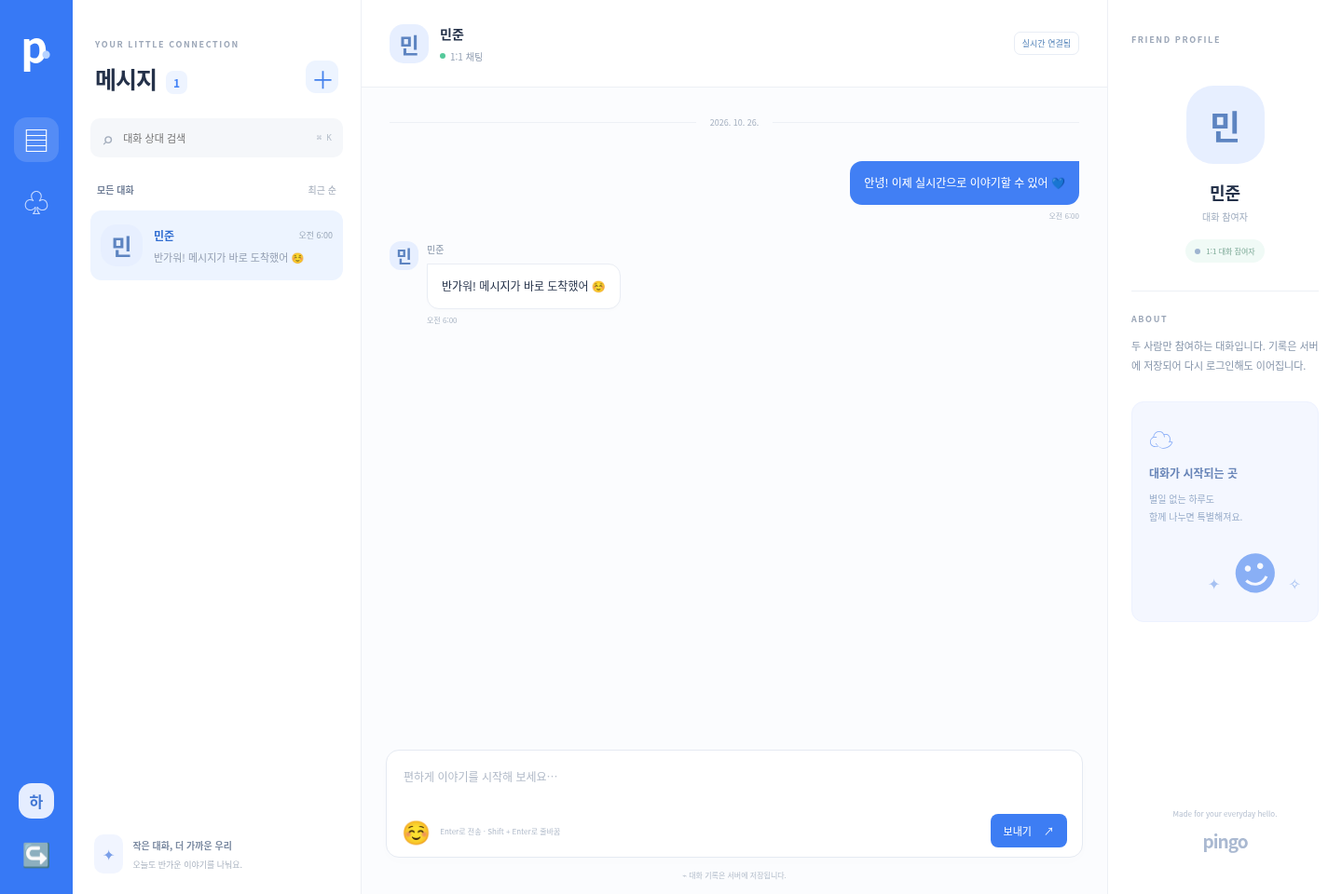
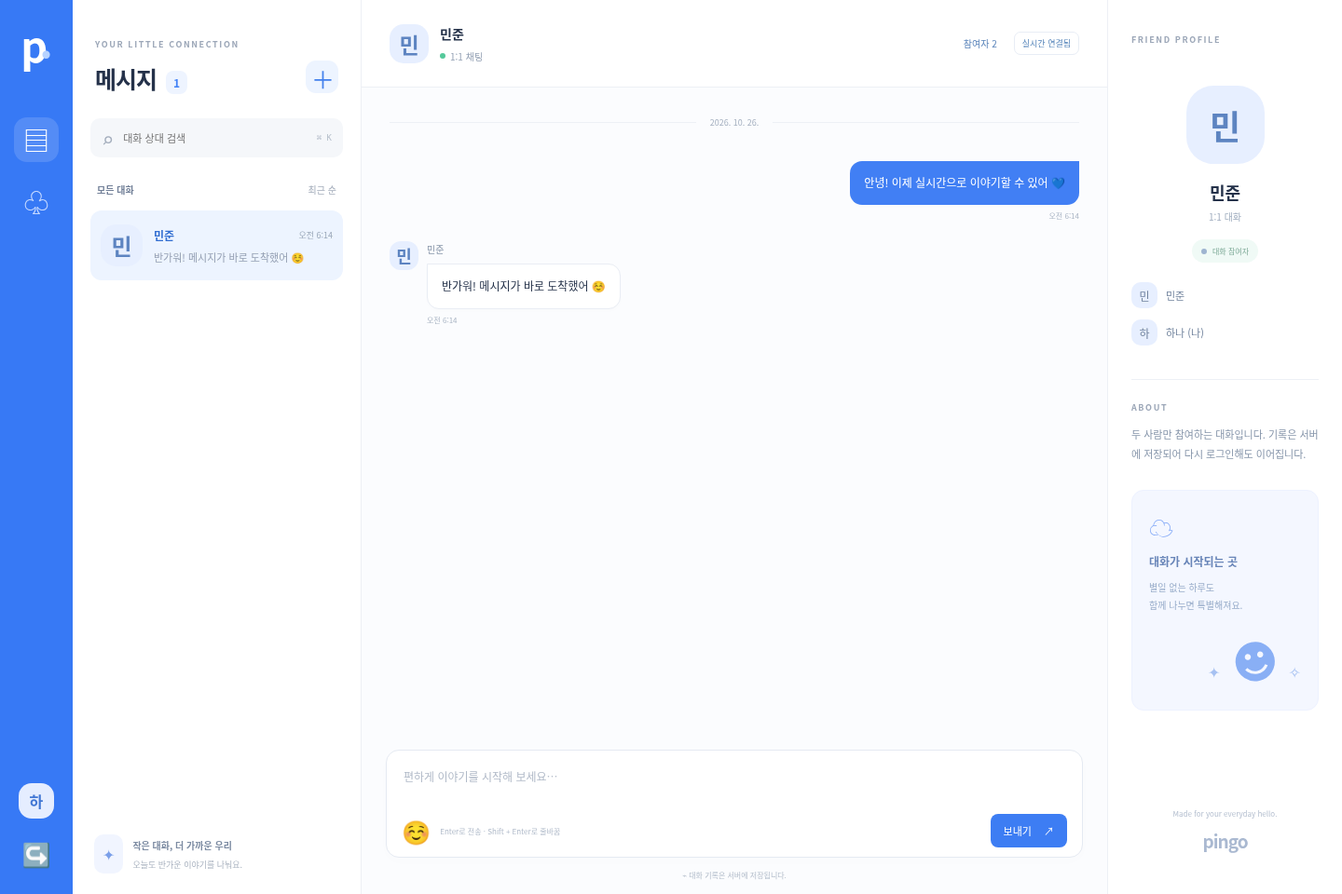
Add realtime group chats with participant lists and safe schema migration

diff --git a/style.css b/style.css
@@ -2,3 +2,4 @@
 :root{font-family:'DM Sans','Noto Sans KR',sans-serif;color:#25324a;background:#eef2f8;font-synthesis:none}*{box-sizing:border-box}body{margin:0}button,input,textarea{font:inherit}button{cursor:pointer}button:focus-visible,a:focus-visible,input:focus-visible,textarea:focus-visible{outline:3px solid #a5c4ff;outline-offset:3px}button{border:0;background:none;color:inherit}.shell{display:grid;grid-template-columns:78px 310px minmax(330px,1fr) 252px;max-width:1600px;height:100dvh;min-height:540px;margin:auto;background:#fff}.rail{background:#3779f5;display:flex;align-items:center;flex-direction:column;gap:18px;padding:25px 0;color:white}.brand{font-size:45px;font-weight:700;line-height:1;color:#fff;text-decoration:none;letter-spacing:-7px;margin-bottom:38px;padding-right:8px}.brand span{font-size:28px;color:#b6d2ff}.rail-button{font-size:28px;color:#c4d8ff;width:48px;height:48px;border-radius:14px}.rail-button.selected{background:#ffffff25;color:white}.rail-bottom{margin-top:auto}.my-avatar{display:grid;place-items:center;background:#e5edff;color:#4277d4;width:38px;height:38px;border-radius:14px;position:relative;font-weight:700}.online{position:absolute;background:#70e1ad;width:10px;height:10px;border:2px solid #3779f5;border-radius:50%;bottom:-2px;right:-2px}.sidebar{border-right:1px solid #edf0f5;padding:32px 19px 20px;display:flex;flex-direction:column}.eyebrow{font-size:9px;font-weight:700;letter-spacing:1.6px;color:#9ca7b8}.side-heading{display:flex;align-items:center;justify-content:space-between;padding:0 5px}h1{font-size:25px;letter-spacing:-1px;margin:10px 0 25px}.count{font-size:12px;color:#4382f6;background:#eef4ff;padding:4px 8px;border-radius:8px;vertical-align:middle;margin-left:10px;letter-spacing:0}.new-chat{background:#edf4ff;color:#4381ed;font-size:25px;border-radius:11px;height:35px;width:35px;margin-top:5px}.search{background:#f5f7fa;border-radius:10px;display:flex;align-items:center;padding:11px 12px;gap:8px;color:#a3adbc}.search>span{font-size:22px;line-height:20px}.search input{min-width:0;width:100%;background:none;border:0;outline:none;font-size:11px;color:#44516a}.search kbd{font-size:9px;white-space:nowrap;color:#b6bfcb}.list-label{display:flex;justify-content:space-between;font-size:10px;color:#a4adbb;padding:27px 7px 15px}.list-label span:first-child{font-weight:600;color:#728098}.contacts{display:flex;flex-direction:column;gap:6px;overflow:auto}.contact{width:100%;display:flex;align-items:center;gap:12px;text-align:left;padding:15px 11px;border-radius:12px}.contact.active{background:#edf4ff}.avatar{height:45px;width:45px;flex-shrink:0;border-radius:17px;display:grid;place-items:center;font-size:24px;background:#ffedd9}.contact-body{min-width:0;flex:1}.contact-top{display:flex;align-items:center;justify-content:space-between;gap:8px}.contact strong{font-size:12px}.contact time{font-size:9px;color:#9ca9ba}.contact p{font-size:11px;color:#95a0b3;margin:7px 0 0;overflow:hidden;white-space:nowrap;text-overflow:ellipsis}.contact.active strong{color:#326ed1}.side-footer{display:flex;gap:10px;align-items:center;margin-top:auto;padding:24px 4px 0}.spark{background:#f1f5ff;color:#7a9fe9;padding:9px;border-radius:10px}.side-footer strong{font-size:10px;color:#7c8ba2}.side-footer p{font-size:9px;color:#aab3c0;margin:5px 0}.chat{display:flex;flex-direction:column;min-width:0;background:#fbfcfe}.chat-header{height:94px;flex-shrink:0;display:flex;align-items:center;gap:12px;padding:0 30px;border-bottom:1px solid #edf0f5;background:white}.chat-header .avatar{height:42px;width:42px;border-radius:15px;font-size:23px}.header-text h2{font-size:14px;margin:0 0 7px}.header-text p{display:flex;align-items:center;gap:5px;font-size:10px;color:#96a3b6;margin:0}.status-dot{height:6px;width:6px;display:inline-block;border-radius:50%;background:#55c99b}.demo-pill{margin-left:auto;color:#95a4ba;border:1px solid #e8edf5;border-radius:7px;padding:5px 8px;font-size:9px}#back{display:none;font-size:28px}.messages{padding:30px;overflow:auto;flex:1;scroll-behavior:smooth}.date{display:flex;align-items:center;gap:15px;font-size:9px;color:#a6b1c1;margin:1px 0 35px;justify-content:center}.date:before,.date:after{content:'';height:1px;background:#edf0f5;flex:1}.message{display:flex;gap:9px;align-items:flex-start;margin:0 0 22px}.message .avatar{width:31px;height:31px;border-radius:12px;font-size:18px}.message-content{max-width:80%;min-width:0}.sender{font-size:10px;color:#8795a9;margin:1px 0 8px}.bubble{background:#fff;border:1px solid #e9edf4;border-radius:0 13px 13px 13px;padding:12px 15px;font-size:12px;line-height:1.9;white-space:pre-wrap;overflow-wrap:anywhere;box-shadow:0 2px 4px #24365603}.message time{font-size:8px;color:#aab5c4;display:block;margin-top:6px}.message.own{justify-content:flex-end}.own .bubble{border:0;border-radius:13px 0 13px 13px;background:#417ff4;color:#fff}.own time{text-align:right}.welcome{margin:40px auto;text-align:center;color:#95a3b7;font-size:12px}.composer-area{padding:0 26px 15px;position:relative}#composer{padding:15px 16px 10px;border:1px solid #e5eaf2;border-radius:14px;background:#fff;box-shadow:0 4px 15px #2b4d7603}textarea{width:100%;border:0;outline:none;resize:none;min-height:48px;max-height:140px;background:transparent;font-size:12px;line-height:1.8;color:#384a63}textarea::placeholder{color:#b1bac8}.composer-bottom{display:flex;justify-content:space-between;align-items:center}.composer-bottom>div{display:flex;align-items:center;gap:10px}#emoji-button{font-size:25px;color:#96a5ba;padding:0}.input-hint{font-size:8px;color:#b1bbca}#send,.primary{background:#3d7df3;color:white;border-radius:8px;font-size:11px;padding:10px 14px}#send span{margin-left:10px}.privacy{text-align:center;color:#b3bdca;font-size:8px;margin:13px 0 0}.emoji-picker{position:absolute;bottom:150px;left:26px;background:white;border:1px solid #e7edf6;padding:10px;border-radius:12px;box-shadow:0 8px 30px #24365615}.emoji-picker button{font-size:24px;padding:5px}.profile{padding:36px 25px;border-left:1px solid #edf0f5;display:flex;align-items:center;flex-direction:column}.profile>.eyebrow:first-child{align-self:flex-start}.profile-avatar{width:84px;height:84px;border-radius:29px;font-size:47px;display:grid;place-items:center;margin-top:43px}.profile h2{font-size:18px;margin:17px 0 6px}.profile>p{font-size:10px;color:#a1aec0;margin:0}.profile-status{background:#f0faf6;color:#7eaa98;border-radius:20px;font-size:8px;padding:7px 10px;margin-top:17px;display:flex;gap:6px;align-items:center}.profile-divider{height:1px;background:#edf0f5;width:100%;margin:30px 0 23px}.profile>.eyebrow{align-self:flex-start}.profile .about{font-size:11px;line-height:1.9;margin-top:12px;align-self:flex-start;color:#8796ab}.profile-note{background:#f4f7ff;border:1px solid #edf2ff;width:100%;border-radius:13px;margin-top:28px;padding:20px 18px;position:relative;overflow:hidden}.profile-note>span{font-size:26px;color:#84aaf7}.profile-note h3{font-size:12px;color:#6885b8;margin:10px 0}.profile-note p{font-size:10px;color:#9aaecb;line-height:1.9}.mini-art{text-align:right;font-size:16px;color:#a6c1f2;margin-top:13px}.mini-art span{display:inline-block;font-size:48px;color:#89aff5;transform:rotate(-12deg);margin:0 8px}.profile-foot{margin-top:auto;padding-top:25px;font-size:8px;text-align:center;color:#b6c0d0;line-height:2.2}.profile-foot strong{font-size:19px;color:#aab9d1;letter-spacing:-1px}dialog{border:1px solid #e5ebf5;border-radius:20px;padding:30px;width:min(400px,90vw);box-shadow:0 20px 80px #152b4b25}dialog::backdrop{background:#21355355;backdrop-filter:blur(4px)}dialog h2{font-size:22px}dialog p{font-size:12px;color:#8e9bb0}.close-dialog{float:right;font-size:25px}#add-friend label{display:block;font-size:12px;margin-top:25px}#add-friend input{display:block;width:100%;margin:10px 0 20px;padding:12px;border:1px solid #dce4f0;border-radius:8px}.primary{width:100%;padding:13px}.empty{font-size:12px;text-align:center;color:#95a3b7;padding:25px 5px}@media(min-width:1450px){.shell{height:calc(100dvh - 64px);margin:32px auto;max-width:1430px;border-radius:20px;overflow:hidden;box-shadow:0 15px 80px #304e7810}}@media(max-width:1150px){.shell{grid-template-columns:70px 280px minmax(300px,1fr)}.profile{display:none}}@media(max-width:720px){.shell{grid-template-columns:60px 240px minmax(0,1fr)}.rail{padding-top:20px}.sidebar{padding:24px 12px}.chat-header{padding:0 18px}.messages{padding:22px 16px}.composer-area{padding:0 12px 15px}.input-hint{display:none}}@media(max-width:600px){.shell{grid-template-columns:58px 1fr;min-height:0}.chat{display:none}.shell.chat-open .sidebar,.shell.chat-open .rail{display:none}.shell.chat-open{grid-template-columns:1fr}.shell.chat-open .chat{display:flex}#back{display:block}.contact{padding:18px 12px}.side-heading h1{margin-top:12px}.demo-pill{font-size:8px}}
 [hidden]{display:none!important}.rail-bottom{display:flex;align-items:center;flex-direction:column;gap:18px}.logout-button{color:#e0eaff;font-size:25px;border-radius:8px}.auth-screen{min-height:100dvh;display:grid;grid-template-columns:1fr 1fr;background:white}.auth-intro{background:#3779f5;color:white;padding:60px max(35px,10vw);display:flex;flex-direction:column;justify-content:center;align-items:flex-start;overflow:hidden}.auth-intro .brand{margin-bottom:85px}.auth-eyebrow{font-size:11px;letter-spacing:3px;color:#c2d7ff}.auth-intro h1{font-size:clamp(27px,3vw,45px);line-height:1.5;letter-spacing:-2px;margin:25px 0}.auth-intro p{color:#ccddff;font-size:14px;line-height:2}.auth-art{font-size:42px;color:#b3d0ff;margin-top:50px;white-space:nowrap}.auth-art span{font-size:120px;display:inline-block;transform:rotate(-12deg);margin:0 30px}.auth-panel{display:grid;place-items:center;padding:45px 25px;background:#fbfcff}.auth-card{width:100%;max-width:365px}.auth-card h2{font-size:27px;letter-spacing:-1px;margin:14px 0 10px}.auth-card>p{font-size:12px;color:#95a3b8;line-height:1.8}.auth-tabs{display:flex;border-bottom:1px solid #e3eaf6;margin:30px 0 25px}.auth-tabs button{flex:1;padding:13px;font-size:13px;color:#94a2b7;border-bottom:2px solid transparent}.auth-tabs button[aria-pressed=true]{color:#3779f5;border-color:#3779f5;font-weight:700}#auth-form label{display:block;font-size:12px;font-weight:600;margin:17px 0;color:#53647f}#auth-form input{display:block;width:100%;border:1px solid #e0e7f2;background:white;padding:13px 14px;border-radius:9px;font-size:12px;margin-top:9px;color:#25324a}#auth-form input::placeholder{color:#a9b4c5}.password-wrap{position:relative}.password-wrap input{padding-right:58px!important}.password-wrap button{position:absolute;right:9px;top:8px;padding:7px;color:#7992b8;font-size:10px}.auth-submit{margin-top:3px;font-size:13px;padding:15px}.auth-error{font-size:11px;color:#c94c59;line-height:1.7;min-height:18px}.auth-card .auth-note{text-align:center;font-size:10px;color:#a8b4c6;margin-top:23px}button:disabled{opacity:.55;cursor:wait}@media(max-width:700px){.auth-screen{grid-template-columns:1fr}.auth-intro{padding:25px 30px}.auth-intro .brand{margin-bottom:20px;font-size:35px}.auth-intro h1{font-size:24px;margin:15px 0 5px;letter-spacing:-1px}.auth-intro p,.auth-art{display:none}.auth-eyebrow{font-size:9px}.auth-panel{padding:32px 24px 40px}.auth-card h2{font-size:23px}}
 .chat-error{margin:12px 25px 0;background:#fff0ef;color:#b84b51;border-radius:8px;padding:10px 13px;font-size:11px;line-height:1.7}#retry-sync{align-self:center;color:#3779f5;padding:10px;font-size:12px}.load-more{display:block;margin:0 auto 20px;padding:8px 14px;border:1px solid #dce7fb;border-radius:20px;color:#5782c4;font-size:11px;background:white}.friend-result{display:block;width:100%;text-align:left;padding:14px;border-radius:10px;background:#edf4ff;color:#326ed1;margin:8px 0;font-size:12px}#friend-error{font-size:11px;color:#8b9ab0;line-height:1.8}.empty{white-space:pre-line;line-height:2}.avatar,.profile-avatar{font-family:'Noto Sans KR',sans-serif;font-weight:600;color:#5d84c1}.profile-avatar{font-size:36px}.demo-pill{white-space:nowrap;color:#5685ba}.profile-status .status-dot{background:#9eb4d0}
+.room-tabs{display:flex;gap:8px;margin:18px 0}.room-tabs button{flex:1;border:1px solid #e3eaf6;border-radius:9px;padding:10px;font-size:12px;color:#92a3ba}.room-tabs button[aria-pressed=true]{color:#3779f5;border-color:#b9d0ff;background:#edf4ff}.room-name-label{display:block;color:#53647f;font-size:12px}.room-name-label input{display:block;width:100%;border:1px solid #dce4f0;border-radius:8px;padding:12px;margin-top:8px;font:inherit}.group-hint{font-size:10px!important}.selected-members{display:flex;flex-wrap:wrap;gap:6px;margin:12px 0}.member-chip{border-radius:20px;padding:6px 10px;background:#eaf2ff;color:#4a7ac6;font-size:11px}.friend-result[aria-pressed=true]{background:#dceaff;border:1px solid #8cb4ff}.member-list{align-self:stretch;max-height:180px;overflow:auto;margin-top:15px}.member-row{display:flex;gap:9px;align-items:center;font-size:11px;color:#71839d;padding:6px 0;overflow-wrap:anywhere}.member-face{display:grid;place-items:center;width:28px;height:28px;flex-shrink:0;border-radius:10px;font-size:12px}.view-members{font-size:10px;color:#5e87bc;white-space:nowrap;margin-left:auto}.chat-header .demo-pill{margin-left:0}.header-text{min-width:0}.header-text h2{white-space:nowrap;overflow:hidden;text-overflow:ellipsis}.contact strong{overflow:hidden;text-overflow:ellipsis;white-space:nowrap}.profile h2{max-width:100%;overflow-wrap:anywhere}.profile-note{flex-shrink:0}.profile{overflow:auto}#friend-results{max-height:230px;overflow:auto}dialog{max-height:90dvh;overflow:auto}#create-group{margin-top:12px}#members-dialog-list{max-height:60dvh;overflow:auto}@media(max-width:600px){.chat-header{gap:8px;padding:0 10px}.chat-header .demo-pill{font-size:7px;padding:4px}.view-members{font-size:9px}.chat-header .avatar{width:34px;height:34px;font-size:17px}.header-text h2{font-size:12px}}

diff --git a/index.html b/index.html
@@ -1,8 +1,8 @@
 <!doctype html>
 <html lang="ko"><head><meta charset="UTF-8"><meta name="viewport" content="width=device-width, initial-scale=1"><title>Pingo — 가까워지는 대화</title><link rel="stylesheet" href="/style.css"><script defer src="/app.js"></script><script defer src="/auth.js"></script></head>
-<body><section id="auth-screen" class="auth-screen"><div class="auth-intro"><a class="brand" href="/">p<span>•</span></a><span class="auth-eyebrow">HELLO, YOUR PEOPLE.</span><h1>반가운 인사로 시작되는<br>우리의 이야기.</h1><p>가까운 친구와 나누는 작은 일상.<br>Pingo에서 함께해요.</p><div class="auth-art">☁ <span>☺</span> ✦</div></div><div class="auth-panel"><div class="auth-card"><span class="eyebrow">WELCOME TO PINGO</span><h2 id="auth-title">다시 만나서 반가워요</h2><p id="auth-description">로그인하고 이야기를 이어가세요.</p><div class="auth-tabs"><button type="button" id="login-tab" aria-pressed="true">로그인</button><button type="button" id="signup-tab" aria-pressed="false">회원가입</button></div><form id="auth-form"><label id="name-field" hidden>이름<input id="auth-name" name="name" autocomplete="nickname" maxlength="30" placeholder="친구들에게 보여줄 이름"></label><label>이메일<input id="auth-email" name="email" type="email" autocomplete="email" maxlength="254" placeholder="hello@example.com" required></label><label>비밀번호<div class="password-wrap"><input id="auth-password" name="password" type="password" autocomplete="current-password" minlength="10" maxlength="128" placeholder="10자 이상 입력해 주세요" required><button type="button" id="toggle-password" aria-label="비밀번호 표시" aria-pressed="false">보기</button></div></label><label id="confirm-field" hidden>비밀번호 확인<input id="auth-confirm" type="password" autocomplete="new-password" maxlength="128" placeholder="비밀번호를 다시 입력해 주세요"></label><p id="auth-error" class="auth-error" role="alert"></p><button class="primary auth-submit" id="auth-submit" type="submit" disabled>로그인 상태 확인 중…</button></form><p class="auth-note">계정은 이 앱의 서버에 저장됩니다.<br>친구와 1:1 실시간 대화를 나누세요.</p></div></div></section><main class="shell" hidden>
+<body><section id="auth-screen" class="auth-screen"><div class="auth-intro"><a class="brand" href="/">p<span>•</span></a><span class="auth-eyebrow">HELLO, YOUR PEOPLE.</span><h1>반가운 인사로 시작되는<br>우리의 이야기.</h1><p>가까운 친구와 나누는 작은 일상.<br>Pingo에서 함께해요.</p><div class="auth-art">☁ <span>☺</span> ✦</div></div><div class="auth-panel"><div class="auth-card"><span class="eyebrow">WELCOME TO PINGO</span><h2 id="auth-title">다시 만나서 반가워요</h2><p id="auth-description">로그인하고 이야기를 이어가세요.</p><div class="auth-tabs"><button type="button" id="login-tab" aria-pressed="true">로그인</button><button type="button" id="signup-tab" aria-pressed="false">회원가입</button></div><form id="auth-form"><label id="name-field" hidden>이름<input id="auth-name" name="name" autocomplete="nickname" maxlength="30" placeholder="친구들에게 보여줄 이름"></label><label>이메일<input id="auth-email" name="email" type="email" autocomplete="email" maxlength="254" placeholder="hello@example.com" required></label><label>비밀번호<div class="password-wrap"><input id="auth-password" name="password" type="password" autocomplete="current-password" minlength="10" maxlength="128" placeholder="10자 이상 입력해 주세요" required><button type="button" id="toggle-password" aria-label="비밀번호 표시" aria-pressed="false">보기</button></div></label><label id="confirm-field" hidden>비밀번호 확인<input id="auth-confirm" type="password" autocomplete="new-password" maxlength="128" placeholder="비밀번호를 다시 입력해 주세요"></label><p id="auth-error" class="auth-error" role="alert"></p><button class="primary auth-submit" id="auth-submit" type="submit" disabled>로그인 상태 확인 중…</button></form><p class="auth-note">계정은 이 앱의 서버에 저장됩니다.<br>친구와 1:1 · 단체 실시간 대화를 나누세요.</p></div></div></section><main class="shell" hidden>
 <nav class="rail" aria-label="주 메뉴"><a class="brand" href="/" aria-label="Pingo 홈">p<span>•</span></a><button class="rail-button selected" data-tab="chats" title="채팅" aria-label="채팅">▤</button><button class="rail-button" data-tab="friends" title="친구" aria-label="친구">♧</button><div class="rail-bottom"><span class="my-avatar" id="my-avatar" title="내 계정">J</span><button id="logout" class="logout-button" title="로그아웃" aria-label="로그아웃">↪</button></div></nav>
 <aside class="sidebar"><div class="side-heading"><div><span class="eyebrow">YOUR LITTLE CONNECTION</span><h1 id="list-title">메시지<span class="count">0</span></h1></div><button class="new-chat" aria-label="새 대화" title="새 대화">＋</button></div><label class="search"><span>⌕</span><input id="search" placeholder="대화 상대 검색" autocomplete="off" aria-label="대화 상대 검색"><kbd>⌘ K</kbd></label><div class="list-label"><span id="list-label">모든 대화</span><span>최근 순</span></div><div id="contacts" class="contacts"></div><div class="side-footer"><span class="spark">✦</span><div><strong>작은 대화, 더 가까운 우리</strong><p>오늘도 반가운 이야기를 나눠요.</p></div></div></aside>
-<section class="chat"><header class="chat-header"><button id="back" aria-label="대화 목록으로">‹</button><div id="header-avatar" class="avatar"></div><div class="header-text"><h2 id="contact-name"></h2><p><span class="status-dot"></span><span id="contact-status">연결 중</span></p></div><span class="demo-pill" id="connection-status" role="status">연결 중</span></header><p id="chat-error" class="chat-error" role="alert" hidden></p><button id="retry-sync" hidden>다시 연결</button><div id="messages" class="messages" role="log" aria-live="polite" aria-label="메시지"></div><div class="composer-area"><div id="emoji-picker" class="emoji-picker" hidden></div><form id="composer"><textarea id="message-input" rows="1" maxlength="2000" placeholder="편하게 이야기를 시작해 보세요…" aria-label="메시지 입력"></textarea><div class="composer-bottom"><div><button type="button" id="emoji-button" aria-label="이모지 선택" title="이모지">☺</button><span class="input-hint">Enter로 전송 · Shift + Enter로 줄바꿈</span></div><button id="send" type="submit">보내기 <span>↗</span></button></div></form><p class="privacy">⌁ 대화 기록은 서버에 저장됩니다.</p></div></section>
-<aside class="profile"><span class="eyebrow">FRIEND PROFILE</span><div id="profile-avatar" class="profile-avatar"></div><h2 id="profile-name"></h2><p id="profile-handle"></p><div class="profile-status"><span class="status-dot"></span> 1:1 대화 참여자</div><div class="profile-divider"></div><span class="eyebrow">ABOUT</span><p id="profile-about" class="about"></p><div class="profile-note"><span>☁</span><h3>대화가 시작되는 곳</h3><p>별일 없는 하루도<br>함께 나누면 특별해져요.</p><div class="mini-art">✦ <span>☻</span> ✧</div></div><div class="profile-foot">Made for your everyday hello.<br><strong>pingo</strong></div></aside>
-</main><dialog id="new-dialog"><form method="dialog"><button class="close-dialog" aria-label="닫기">×</button></form><h2>새로운 대화</h2><p>가입한 친구의 이름 또는 정확한 이메일로 찾아보세요.</p><form id="add-friend"><label>이름 또는 이메일<input id="friend-name" minlength="2" maxlength="254" placeholder="이름 또는 friend@example.com" required autocomplete="off"></label><button class="primary" type="submit">친구 찾기 ⌕</button></form><p id="friend-error" role="status"></p><div id="friend-results"></div></dialog></body></html>
+<section class="chat"><header class="chat-header"><button id="back" aria-label="대화 목록으로">‹</button><div id="header-avatar" class="avatar"></div><div class="header-text"><h2 id="contact-name"></h2><p><span class="status-dot"></span><span id="contact-status">연결 중</span></p></div><button id="view-members" class="view-members" type="button" hidden>참여자</button><span class="demo-pill" id="connection-status" role="status">연결 중</span></header><p id="chat-error" class="chat-error" role="alert" hidden></p><button id="retry-sync" hidden>다시 연결</button><div id="messages" class="messages" role="log" aria-live="polite" aria-label="메시지"></div><div class="composer-area"><div id="emoji-picker" class="emoji-picker" hidden></div><form id="composer"><textarea id="message-input" rows="1" maxlength="2000" placeholder="편하게 이야기를 시작해 보세요…" aria-label="메시지 입력"></textarea><div class="composer-bottom"><div><button type="button" id="emoji-button" aria-label="이모지 선택" title="이모지">☺</button><span class="input-hint">Enter로 전송 · Shift + Enter로 줄바꿈</span></div><button id="send" type="submit">보내기 <span>↗</span></button></div></form><p class="privacy">⌁ 대화 기록은 서버에 저장됩니다.</p></div></section>
+<aside class="profile"><span class="eyebrow">FRIEND PROFILE</span><div id="profile-avatar" class="profile-avatar"></div><h2 id="profile-name"></h2><p id="profile-handle"></p><div class="profile-status"><span class="status-dot"></span> 대화 참여자</div><div id="member-list" class="member-list"></div><div class="profile-divider"></div><span class="eyebrow">ABOUT</span><p id="profile-about" class="about"></p><div class="profile-note"><span>☁</span><h3>대화가 시작되는 곳</h3><p>별일 없는 하루도<br>함께 나누면 특별해져요.</p><div class="mini-art">✦ <span>☻</span> ✧</div></div><div class="profile-foot">Made for your everyday hello.<br><strong>pingo</strong></div></aside>
+</main><dialog id="new-dialog"><form method="dialog"><button class="close-dialog" aria-label="닫기">×</button></form><h2>새로운 대화</h2><div class="room-tabs" aria-label="대화 유형"><button type="button" id="direct-mode" aria-pressed="true">1:1 대화</button><button type="button" id="group-mode" aria-pressed="false">단체 대화</button></div><div id="group-options" hidden><label class="room-name-label">방 이름<input id="group-title" maxlength="60" placeholder="예: 주말 모임"></label><p class="group-hint">친구를 2명 이상 선택하세요. 나를 포함해 최대 50명까지 함께할 수 있어요.</p><div id="selected-members" class="selected-members"></div></div><p>가입한 친구의 이름 또는 정확한 이메일로 찾아보세요.</p><form id="add-friend"><label>이름 또는 이메일<input id="friend-name" minlength="2" maxlength="254" placeholder="이름 또는 friend@example.com" required autocomplete="off"></label><button class="primary" type="submit">친구 찾기 ⌕</button></form><p id="friend-error" role="status"></p><div id="friend-results"></div><button type="button" class="primary" id="create-group" hidden disabled>단체 대화 만들기</button></dialog><dialog id="members-dialog"><form method="dialog"><button class="close-dialog" aria-label="닫기">×</button></form><h2 id="members-title">참여자</h2><div id="members-dialog-list"></div></dialog></body></html>

diff --git a/app.js b/app.js
@@ -3,6 +3,8 @@ let account = null, conversations = [], active = null, source = null;
 let generation = 0, syncRunning = false, syncAgain = false, sending = false;
 let selectionVersion = 0, searchVersion = 0, pendingSend = null;
 const histories = new Map();
+let roomMode = 'direct', groupCreating = false;
+const selectedMembers = new Map();
 const current = () => conversations.find(c => c.id === active);
 const clock = value => new Intl.DateTimeFormat('ko-KR', { hour: 'numeric', minute: '2-digit' }).format(new Date(value));
 function element(tag, className, text) {
@@ -32,9 +34,9 @@ function renderList() {
   for (const c of conversations.filter(c => c.peer_name.toLowerCase().includes(query))) {
     const button = element('button', 'contact' + (c.id === active ? ' active' : ''));
     button.setAttribute('aria-pressed', String(c.id === active));
-    const face = element('span', 'avatar'); avatar(face, c.peer_name);
+    const face = element('span', 'avatar'); avatar(face, c.kind === 'group' ? '♧' : c.peer_name);
     const body = element('div', 'contact-body'), top = element('div', 'contact-top');
-    top.append(element('strong', '', c.peer_name), element('time', '', clock(c.last_at || c.created_at)));
+    top.append(element('strong', '', c.peer_name + (c.kind === 'group' ? ` · ${c.member_count}` : '')), element('time', '', clock(c.last_at || c.created_at)));
     body.append(top, element('p', '', c.last_text || '첫 인사를 건네보세요 👋'));
     button.append(face, body); button.onclick = () => selectConversation(c.id);
     list.append(button);
@@ -59,9 +61,10 @@ function renderMessages({ bottom = false } = {}) {
     const date = new Date(message.created_at).toLocaleDateString('ko-KR');
     if (date !== lastDate) { log.append(element('div', 'date', date)); lastDate = date; }
     const own = message.sender_id === account.id, row = element('div', 'message' + (own ? ' own' : ''));
-    if (!own) { const face = element('span', 'avatar'); avatar(face, c.peer_name); row.append(face); }
+    const senderName = c.members?.find(member => member.id === message.sender_id)?.name || c.peer_name;
+    if (!own) { const face = element('span', 'avatar'); avatar(face, senderName); row.append(face); }
     const content = element('div', 'message-content');
-    if (!own) content.append(element('div', 'sender', c.peer_name));
+    if (!own) content.append(element('div', 'sender', senderName));
     content.append(element('div', 'bubble', message.text), element('time', '', clock(message.created_at)));
     row.dataset.messageId = message.id; row.append(content); log.append(row);
   }
@@ -71,10 +74,13 @@ function renderHeader() {
   const c = current();
   $('#contact-name').textContent = c?.peer_name || '새로운 대화';
   $('#profile-name').textContent = c?.peer_name || 'Pingo';
-  $('#profile-handle').textContent = c ? '대화 참여자' : '가까워지는 대화';
-  $('#profile-about').textContent = c ? '두 사람만 참여하는 대화입니다. 기록은 서버에 저장되어 다시 로그인해도 이어집니다.' : '가입한 친구를 검색하고 대화를 시작하세요.';
-  $('#contact-status').textContent = c ? '1:1 채팅' : '친구를 찾아보세요';
-  avatar($('#header-avatar'), c?.peer_name); avatar($('#profile-avatar'), c?.peer_name);
+  $('#profile-handle').textContent = c ? (c.kind === 'group' ? `단체 대화 · ${c.member_count}명` : '1:1 대화') : '가까워지는 대화';
+  $('#profile-about').textContent = c ? (c.kind === 'group' ? '함께 나누는 이야기, 더 가까워지는 우리. 참여자만 대화 기록에 접근할 수 있어요.' : '두 사람만 참여하는 대화입니다. 기록은 서버에 저장되어 다시 로그인해도 이어집니다.') : '가입한 친구를 검색하고 대화를 시작하세요.';
+  $('#contact-status').textContent = c ? (c.kind === 'group' ? `단체 채팅 · ${c.member_count}명` : '1:1 채팅') : '친구를 찾아보세요';
+  $('#view-members').hidden = !c;
+  $('#view-members').textContent = c ? `참여자 ${c.member_count}` : '참여자';
+  renderMembers();
+  avatar($('#header-avatar'), c?.kind === 'group' ? '♧' : c?.peer_name); avatar($('#profile-avatar'), c?.kind === 'group' ? '♧' : c?.peer_name);
   $('#message-input').disabled = !c; $('#send').disabled = !c || sending;
 }
 function mergeHistory(id, data) {
@@ -161,6 +167,10 @@ function clearAccount() {
   $('#friend-results').replaceChildren(); $('#friend-error').textContent = ''; $('#emoji-picker').hidden = true;
   $('#retry-sync').hidden = true; chatError(); $('.shell').classList.remove('chat-open');
   if ($('#new-dialog').open) $('#new-dialog').close();
+  if ($('#members-dialog').open) $('#members-dialog').close();
+  selectedMembers.clear(); groupCreating = false;
+  $('#direct-mode').disabled = false; $('#group-mode').disabled = false;
+  $('#member-list').replaceChildren(); $('#members-dialog-list').replaceChildren();
 }
 $('#composer').onsubmit = async event => {
   event.preventDefault(); if (!account || !active || sending) return;
@@ -183,11 +193,11 @@ $('#message-input').oninput = event => { event.target.style.height = 'auto'; eve
 $('#search').oninput = renderList;
 document.addEventListener('keydown', e => { if ((e.metaKey || e.ctrlKey) && e.key === 'k') { e.preventDefault(); $('#search').focus(); } });
 document.querySelectorAll('[data-tab]').forEach(button => button.onclick = () => {
-  if (button.dataset.tab === 'friends') { $('#new-dialog').showModal(); return; }
+  if (button.dataset.tab === 'friends') { openNewConversation(); return; }
   $('#search').value = ''; renderList();
 });
 $('#back').onclick = () => $('.shell').classList.remove('chat-open');
-$('.new-chat').onclick = () => { $('#new-dialog').showModal(); $('#friend-name').focus(); };
+$('.new-chat').onclick = openNewConversation;
 $('#retry-sync').onclick = () => { connectEvents(); synchronize(); };
 $('#new-dialog').addEventListener('close', () => { searchVersion++; });
 $('#add-friend').onsubmit = async event => {
@@ -198,8 +208,17 @@ $('#add-friend').onsubmit = async event => {
     if (epoch !== generation || version !== searchVersion) return;
     $('#friend-error').textContent = users.length ? '대화할 친구를 선택하세요.' : '가입한 친구를 찾지 못했어요. 이름 또는 정확한 이메일을 확인해 주세요.';
     for (const user of users) {
-      const button = element('button', 'friend-result', user.name + ' · 대화 시작 ↗');
+      const button = element('button', 'friend-result', '');
+      button.dataset.userId = user.id;
+      button.textContent = roomMode === 'group' ? (selectedMembers.has(user.id) ? '✓ ' : '＋ ') + user.name : user.name + ' · 대화 시작 ↗';
+      if (roomMode === 'group') button.setAttribute('aria-pressed', String(selectedMembers.has(user.id)));
       button.onclick = async () => {
+        if (roomMode === 'group') {
+          if (selectedMembers.has(user.id)) selectedMembers.delete(user.id);
+          else if (selectedMembers.size < 49) selectedMembers.set(user.id, user);
+          else { $('#friend-error').textContent = '친구는 최대 49명까지 선택할 수 있어요.'; return; }
+          updateGroupSelection(); return;
+        }
         button.disabled = true;
         try {
           const { conversation } = await chatRequest('conversations', { userId: user.id });
@@ -221,3 +240,67 @@ for (const emoji of ['😊', '💙', '✨', '👋', '😂', '☕', '🌿', '🎉
 $('#emoji-button').onclick = () => { if (active) $('#emoji-picker').hidden = !$('#emoji-picker').hidden; };
 window.addEventListener('online', () => { if (account) { connectEvents(); synchronize(); } });
 document.addEventListener('visibilitychange', () => { if (!document.hidden && account) synchronize(); });
+
+function renderMembers() {
+  for (const target of [$('#member-list'), $('#members-dialog-list')]) {
+    target.replaceChildren();
+    for (const member of current()?.members || []) {
+      const row = element('div', 'member-row');
+      const face = element('span', 'member-face'); avatar(face, member.name);
+      row.append(face, element('span', '', member.name + (member.id === account?.id ? ' (나)' : '')));
+      target.append(row);
+    }
+  }
+  $('#members-title').textContent = current() ? `참여자 ${current().member_count}명` : '참여자';
+}
+function openNewConversation() {
+  setRoomMode('direct'); $('#group-title').value = ''; $('#friend-name').value = '';
+  $('#new-dialog').showModal(); $('#friend-name').focus();
+}
+function setRoomMode(mode) {
+  if (groupCreating) return;
+  roomMode = mode; searchVersion++; selectedMembers.clear();
+  $('#direct-mode').setAttribute('aria-pressed', String(mode === 'direct'));
+  $('#group-mode').setAttribute('aria-pressed', String(mode === 'group'));
+  $('#group-options').hidden = mode !== 'group'; $('#create-group').hidden = mode !== 'group';
+  $('#friend-results').replaceChildren(); $('#friend-error').textContent = '';
+  updateGroupSelection();
+}
+function updateGroupSelection() {
+  $('#selected-members').replaceChildren();
+  for (const user of selectedMembers.values()) {
+    const chip = element('button', 'member-chip', user.name + ' ×'); chip.type = 'button';
+    chip.setAttribute('aria-label', user.name + ' 선택 해제');
+    chip.disabled = groupCreating;
+    chip.onclick = () => { selectedMembers.delete(user.id); updateGroupSelection(); };
+    $('#selected-members').append(chip);
+  }
+  if (roomMode === 'group') for (const button of document.querySelectorAll('.friend-result')) {
+    const selected = selectedMembers.has(button.dataset.userId);
+    const text = button.textContent.replace(/^[✓＋] /, '');
+    button.textContent = (selected ? '✓ ' : '＋ ') + text;
+    button.setAttribute('aria-pressed', String(selected)); button.disabled = groupCreating;
+  }
+  $('#create-group').disabled = groupCreating || selectedMembers.size < 2 || !$('#group-title').value.trim();
+  $('#create-group').textContent = groupCreating ? '만드는 중…' : `단체 대화 만들기 · ${selectedMembers.size + 1}명`;
+}
+$('#direct-mode').onclick = () => setRoomMode('direct');
+$('#group-mode').onclick = () => setRoomMode('group');
+$('#group-title').oninput = updateGroupSelection;
+$('#view-members').onclick = () => { renderMembers(); $('#members-dialog').showModal(); };
+$('#create-group').onclick = async () => {
+  if (groupCreating || selectedMembers.size < 2 || !$('#group-title').value.trim()) return;
+  const epoch = generation;
+  groupCreating = true; updateGroupSelection();
+  $('#direct-mode').disabled = true; $('#group-mode').disabled = true;
+  try {
+    const { conversation } = await chatRequest('conversations', { kind: 'group', title: $('#group-title').value.trim(), userIds: [...selectedMembers.keys()] });
+    if (epoch !== generation) return;
+    const { conversations: list } = await chatRequest('conversations');
+    if (epoch !== generation) return;
+    conversations = list; $('#new-dialog').close(); selectConversation(conversation.id);
+  } catch (error) { if (epoch === generation) $('#friend-error').textContent = error.message; }
+  finally {
+    if (epoch === generation) { groupCreating = false; updateGroupSelection(); $('#direct-mode').disabled = false; $('#group-mode').disabled = false; }
+  }
+};

diff --git a/README.md b/README.md
@@ -1,6 +1,6 @@
 # Pingo
 
-QQ에서 영감을 받은 파란색 테마의 **1:1 실시간 채팅 앱**입니다. 계정, 대화방, 메시지를 SQLite에 저장하고 SSE(Server-Sent Events)로 상대방 화면에 새 대화를 반영합니다. Node.js 24 이상에서 외부 패키지 설치 없이 동작합니다.
+QQ에서 영감을 받은 파란색 테마의 **1:1 · 단체 실시간 채팅 앱**입니다. 계정, 대화방, 메시지를 SQLite에 저장하고 SSE(Server-Sent Events)로 상대방 화면에 새 대화를 반영합니다. Node.js 24 이상에서 외부 패키지 설치 없이 동작합니다.
 
 ## 실행
 
@@ -8,7 +8,7 @@ QQ에서 영감을 받은 파란색 테마의 **1:1 실시간 채팅 앱**입니
 npm start
 ```
 
-기본 포트는 3000입니다. 다른 서버가 사용 중이면 `PORT=3003 npm start`처럼 변경하세요. 서로 대화할 사용자는 **같은 서버 주소**에 접속해야 합니다.
+기본 포트는 3000입니다. 다른 서버가 사용 중이면 `PORT=3005 npm start`처럼 변경하세요. 서로 대화할 사용자는 **같은 서버 주소**에 접속해야 합니다.
 
 ## 1:1 채팅 사용법
 
@@ -20,6 +20,18 @@ npm start
 6. 새로고침하거나 다시 로그인해도 서버에 저장된 대화를 이어갑니다. **이전 메시지 보기**로 과거 기록을 불러옵니다.
 
 등록된 계정만 검색할 수 있습니다. 같은 두 사용자의 대화방은 하나로 유지됩니다. 오프라인 상태에서는 메시지를 보냈다고 표시하지 않고 입력을 유지합니다. 연결을 복구한 뒤 전송 버튼으로 다시 보낼 수 있습니다.
+
+## 단체 채팅 사용법
+
+1. **＋ → 단체 대화**를 선택하고 방 이름(1~60자)을 입력합니다.
+2. 친구의 이름이나 이메일을 검색하고 검색 결과를 눌러 선택합니다. 검색어를 바꿔도 선택은 유지되며 이름 옆 ×로 해제할 수 있습니다.
+3. 친구를 2명 이상 선택한 뒤 **단체 대화 만들기**를 누릅니다. 생성자는 자동 포함되며, 총 3~50명까지 참여할 수 있습니다.
+4. 선택한 모든 사용자의 대화 목록에 방이 나타납니다. 메시지마다 보낸 사람 이름이 표시됩니다.
+5. 대화창의 **참여자** 버튼으로 전체 참여자를 확인할 수 있습니다. 모바일에서도 같은 버튼을 사용합니다.
+
+현재 참여자는 방을 만들 때 정하며, 생성 후 추가 초대·내보내기·나가기·방 이름 변경은 지원하지 않습니다. 같은 멤버로 다른 이름의 방을 여러 개 만들 수 있습니다. 기존 1:1 방은 계속 하나로 유지됩니다.
+
+기존 DB는 서버 시작 시 자동으로 단체방 지원 스키마로 변경됩니다. 기존 사용자, 로그인 세션, 1:1 대화방 ID와 메시지 기록을 보존합니다. 업그레이드 전에 기존 서버 프로세스를 종료하고 DB를 백업하세요. 여러 버전의 서버를 같은 DB에 동시에 연결하지 마세요. 마이그레이션과 참여자 생성은 트랜잭션으로 처리합니다.
 
 ## 저장과 인증
 
@@ -48,9 +60,11 @@ npm run check
 npm test
 ```
 
-테스트는 임시 DB와 별도 서버에서 수행하므로 실제 계정과 대화는 변경하지 않습니다. 인증 수명주기, 실시간 알림, 참여자 권한, 전송자 위조 차단, 중복 전송, 기록 페이지 조회, 서버 재시작 후 복원을 검증합니다.
+테스트는 임시 DB와 별도 서버에서 수행하므로 실제 계정과 대화는 변경하지 않습니다. 인증 수명주기, 실시간 알림, 참여자 권한, 전송자 위조 차단, 중복 전송, 기록 페이지 조회, 서버 재시작 후 복원, 단체방 생성 검증, 참여자별 접근, 실시간 다중 수신과 기존 DB 마이그레이션을 검증합니다.
 
 ## 실행 화면
+
+![단체 실시간 채팅](docs/pingo-group.png)
 
 ![1:1 실시간 채팅](docs/pingo-realtime.png)
 
